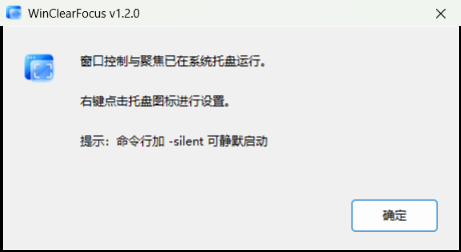
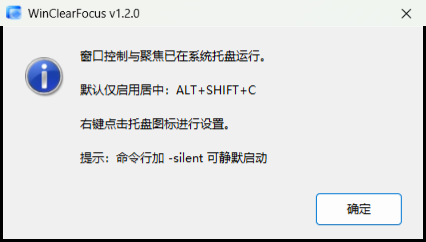
fix(ui): 精简启动提示并恢复系统信息图标
- 正文移除大程序图标，改用系统标准蓝色信息图标

- 第一行后新增默认居中提醒，动态显示当前居中快捷键

- 收紧对话框尺寸与行距，减少空白

- 更新 README 说明与 docs/startup.png

diff --git a/src/ui/StartupDialog.cpp b/src/ui/StartupDialog.cpp
@@ -3,7 +3,9 @@
 #include <stdio.h>
 
 #include "app/Constants.h"
+#include "core/Settings.h"
 #include "resource.h"
+#include "util/HotkeyText.h"
 
 namespace wcf {
 namespace {
@@ -33,11 +35,28 @@ INT_PTR CALLBACK StartupDialogProc(HWND hDlg, UINT uMsg, WPARAM wParam, LPARAM l
             SendMessageW(hDlg, WM_SETICON, ICON_SMALL, (LPARAM)g_smallIcon);
         }
 
+        // 正文使用系统标准信息图标（蓝色 i）
+        HICON infoIcon = LoadIconW(NULL, IDI_INFORMATION);
+        if (infoIcon) {
+            SendDlgItemMessageW(hDlg, IDC_STARTUP_ICON, STM_SETICON,
+                                (WPARAM)infoIcon, 0);
+        }
+
         wchar_t line1[128];
         swprintf_s(line1, 128, L"%s已在系统托盘运行。", WCF_APP_NAME_ZH);
         SetDlgItemTextW(hDlg, IDC_STARTUP_LINE1, line1);
-        SetDlgItemTextW(hDlg, IDC_STARTUP_LINE2, L"右键点击托盘图标进行设置。");
-        SetDlgItemTextW(hDlg, IDC_STARTUP_LINE3, L"提示：命令行加 -silent 可静默启动");
+
+        // 提醒默认只启用窗口居中，并显示当前设置里的居中快捷键
+        const HotkeyBinding& center = Hotkey(HotkeyAction::CenterWindow);
+        wchar_t keyText[128];
+        swprintf_s(keyText, 128, L"%s+%s",
+                   ModifierName(center.modifiers), KeyName(center.key));
+        wchar_t line2[160];
+        swprintf_s(line2, 160, L"默认仅启用居中：%s", keyText);
+        SetDlgItemTextW(hDlg, IDC_STARTUP_LINE2, line2);
+
+        SetDlgItemTextW(hDlg, IDC_STARTUP_LINE3, L"右键点击托盘图标进行设置。");
+        SetDlgItemTextW(hDlg, IDC_STARTUP_LINE4, L"提示：命令行加 -silent 可静默启动");
         return TRUE;
     }
 

diff --git a/res/resource.h b/res/resource.h
@@ -7,4 +7,6 @@
 #define IDC_STARTUP_LINE1                1003
 #define IDC_STARTUP_LINE2                1004
 #define IDC_STARTUP_LINE3                1005
+#define IDC_STARTUP_ICON                 1006
+#define IDC_STARTUP_LINE4                1007
 

diff --git a/README.md b/README.md
@@ -31,7 +31,7 @@ WinClearFocus（窗口控制与聚焦）基于 [iwill123/Window2Clear](https://g
   <img src="docs/startup.png" width="320" alt="启动提示">
 </p>
 
-<p align="center"><sub>启动提示 · 程序图标 + 英文名</sub></p>
+<p align="center"><sub>启动提示 · 程序图标 + 默认居中快捷键</sub></p>
 
 ## ✨ 核心特性
 
@@ -255,7 +255,7 @@ WinClearFocus/
 **新增 / 改进**
 
 - 新增中文显示名 **“窗口控制与聚焦”**
-- 精简启动提示，正文只保留托盘运行与设置入口；标题栏显示程序图标 + 英文名
+- 启动提示改为原生对话框：标题栏显示程序图标 + 英文名，正文提醒默认居中快捷键，并改用系统信息图标、收紧尺寸
 - 设置窗口标题栏改为小图标 + 常规字号，更接近系统原生标题栏
 - 完成源码模块化重构：按 `app / core / ui / util` 分层，单文件拆分为独立模块
 - 新增“启用重置”独立开关：即使关闭透明度调整，也能单独启用重置热键
